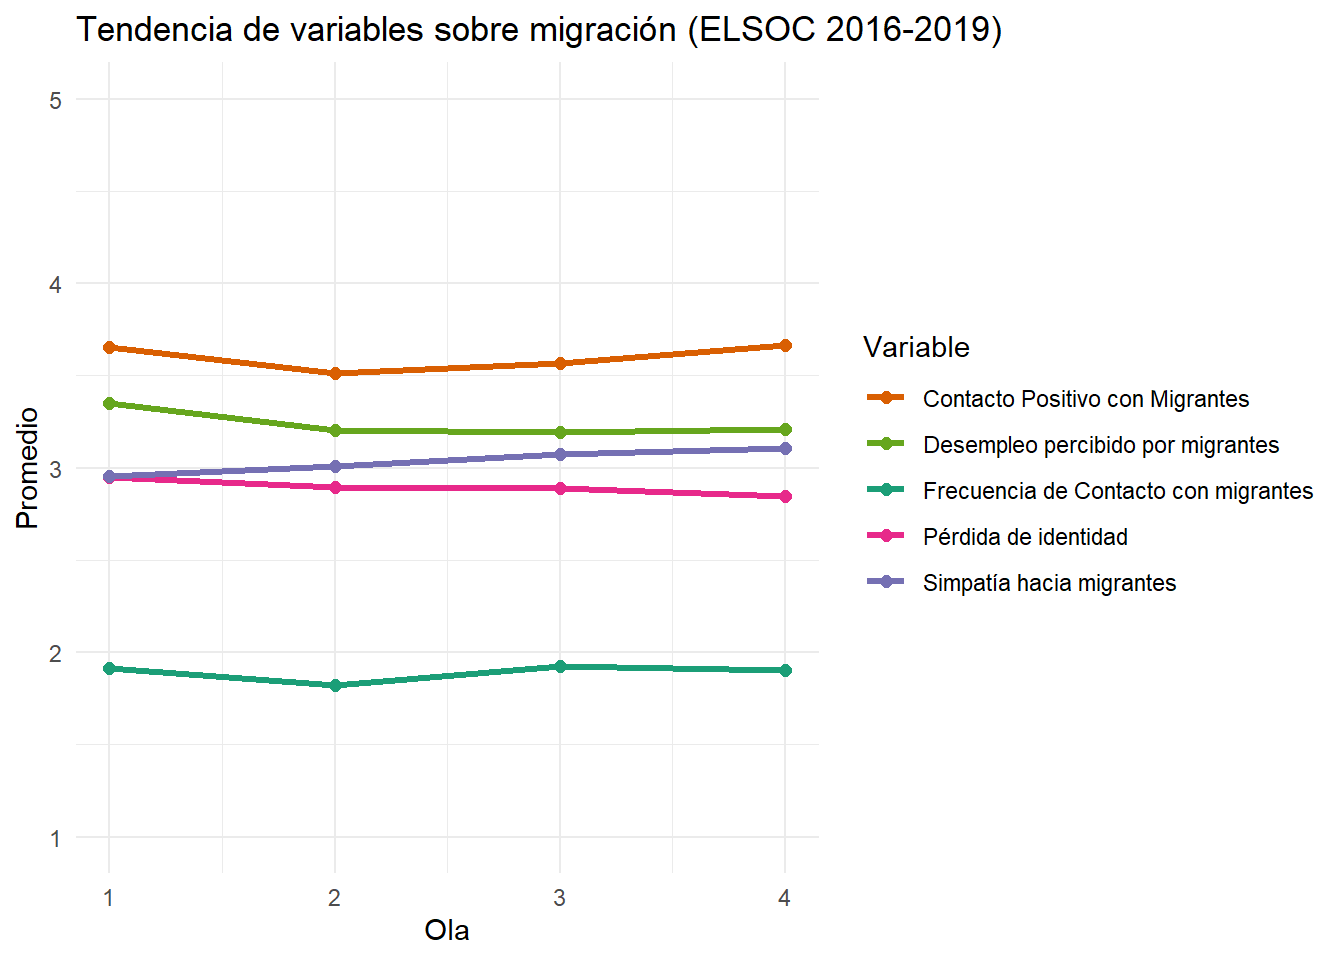
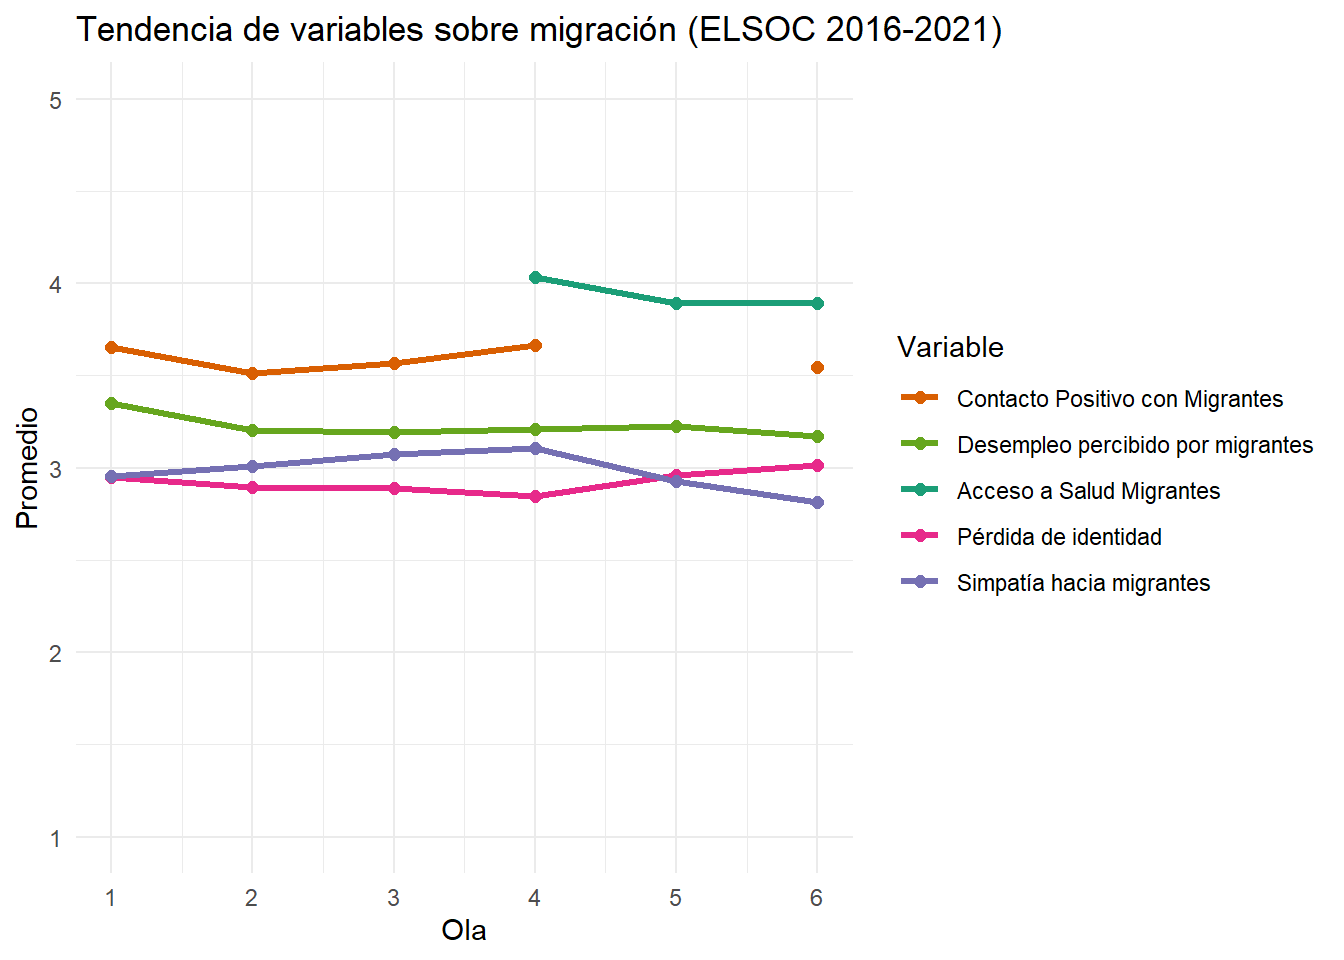
render

diff --git a/output/migracion_long.html b/output/migracion_long.html
@@ -52,7 +52,7 @@ ul.task-list li input[type="checkbox"] {
       <div>
       <div class="quarto-title-meta-heading">Fecha de publicación</div>
       <div class="quarto-title-meta-contents">
-        <p class="date">25 de agosto de 2025</p>
+        <p class="date">26 de agosto de 2025</p>
       </div>
     </div>
     
@@ -80,9 +80,22 @@ ul.task-list li input[type="checkbox"] {
 <p><img src="ocs-new.jpeg" class="logo" width="262" height="120"></p>
 <section id="migración-en-chile-percepciones-desafíos-y-oportunidades" class="level1" style="text-align: justify" data-number="1"><h1 data-number="1">
 <span class="header-section-number">1</span> Migración en Chile: Percepciones, desafíos y oportunidades</h1>
-<p>Hasta fines de 2024, Chile alberga aproximadamente 1,9 millones de personas extranjeras, con predominio de hombres (51,1%) y concentración etaria entre 30 y 39 años. Los principales grupos son venezolanos (38%), peruanos (13,6%) y haitianos (9,8%) (SERMIG, 2024). La migración se ha convertido en un tema central de la agenda pública, no solo como desafío administrativo, sino también como eje de conflicto social y percepción ciudadana (SERMIG, 2025).</p>
-<p>Los datos muestran un empeoramiento de las actitudes hacia migrantes: un 55% percibe conflictos “muy fuertes” entre nacionales y extranjeros (El País, 2025; La Tercera, 2025), y un 70% declara alta distancia social (Activa Research, 2025). La percepción de carga económica también es elevada: 72% de los chilenos considera que los migrantes presionan los servicios públicos, frente a 18% que reconoce su aporte positivo (Panel Ciudadano, 2024).</p>
+<p>De acuerdo con los resultados de migración presentes en el CENSO 2024, Chile alberga aproximadamente 1,6 millones de De acuerdo con los resultados del CENSO 2024, la población nacida fuera de Chile asciende a aproximadamente 1,6 millones de personas. Esta cifra representa un 8.8% de la población total residente en el país, lo que duplica el porcentaje de 4.4% registrado en el censo anterior de 2017.</p>
+<p>Del total de inmigrantes internacionales, 508.178 personas llegaron al país antes de 2017, mientras que 1.085.538 lo hicieron a partir de ese año. El mayor flujo migratorio se concentró en el período 2017-2019, con cifras anuales del 10.4% (2017), 12.4% (2018) y 10.7% (2019) del total de personas migrantes que declararon su año de ingreso.</p>
+<p>Con predominio de mujeres (51.7%) y concentración etaria entre 30 y 39 años. El grupo principal corresponde a las personas provenientes de Venezuela (41.6%), seguido de Perú (14.5%) y Colombia (12.3%) (CENSO, 2024).</p>
+<p>La migración se ha convertido en un tema central de la agenda pública, no solo como desafío administrativo, sino también como eje de conflicto social. El cambio abrupto tanto en la magnitud como en la composición de los flujos ha tensionado los patrones de interacción social y los marcos institucionales disponibles para procesar el fenómeno (Lang et al., 2024).</p>
+<p>Este escenario ha generado un periodo de adaptación inestable entre migrantes y población local, en el que la inclusión social se ve dificultada por la rapidez y densidad del cambio (Lang et al., 2024). En consecuencia, las percepciones ciudadanas hacia los migrantes recientes se caracterizan por una fuerte ambivalencia: mientras una mayoría de chilenos (74%) y migrantes previos (72%) declara una visión negativa respecto de quienes llegaron en los últimos cinco años (CEP, 2024), también se reconoce a este grupo como trabajadores y honestos, aunque simultáneamente se les asocie con delincuencia o falta de respeto a las costumbres locales.</p>
+<p>La evidencia muestra que estas percepciones contradictorias dependen fuertemente de la experiencia individual y contingente de la interacción, de modo que el mismo espacio —la calle, el barrio o el trabajo— puede ser escenario tanto de relaciones positivas como negativas (CEP, 2024). La falta de anclajes institucionales y discursivos que otorguen estabilidad a estas experiencias refuerza la polarización y la incertidumbre, situando a los migrantes recientes como objeto de juicios extremos, ya sea positivos o negativos (Lang et al., 2024).</p>
+<p>La macrozona norte del país es un caso particularmente relevante, dado que concentra una alta densidad de población migrante (CENSO, 2024) y enfrenta un contacto cotidiano más frecuente con ellos (INE, 2022). No obstante, contrariamente a lo sugerido por la literatura sobre contacto intergrupal, que indica que la interacción sostenida tiende a reducir prejuicios (Voci &amp; Hewstone, 2003; Paolini et al., 2014), en esta zona se observa una asociación significativa entre mayor exposición y percepciones más negativas, especialmente en aspectos normativos como el respeto a las leyes o a las costumbres chilenas (CEP, 2024). Este hallazgo coincide con tesis como la de Putnam (2007), quien advierte que la diversidad puede generar actitudes hostiles en el corto plazo, antes de que se consoliden procesos de integración.</p>
 <div class="cell">
+<div class="cell-output cell-output-stderr">
+<pre><code>Warning: Removed 3 rows containing missing values or values outside the scale range
+(`geom_line()`).</code></pre>
+</div>
+<div class="cell-output cell-output-stderr">
+<pre><code>Warning: Removed 4 rows containing missing values or values outside the scale range
+(`geom_point()`).</code></pre>
+</div>
 <div class="cell-output-display">
 <div id="fig-long-1" class="quarto-float quarto-figure quarto-figure-center anchored">
 <figure class="quarto-float quarto-float-fig figure"><div aria-describedby="fig-long-1-caption-0ceaefa1-69ba-4598-a22c-09a6ac19f8ca">
@@ -94,7 +107,6 @@ Figura&nbsp;1: Tendencia de variables sobre migración ELSOC (2016-2019)
 </div>
 </div>
 </div>
-<p>La interacción ciudadana es selectiva: abierta en ámbitos laborales y escolares, pero resistente en espacios cercanos como vecindario o relaciones jerárquicas (Criteria, 2025). Niños, niñas y adolescentes migrantes presentan alta vulnerabilidad, especialmente quienes viven en situación irregular, enfrentando riesgos de exclusión educativa, violencia y precariedad (SERMIG, 2025; Políticas Migratorias, 2024).</p>
 <div class="cell">
 <div class="cell-output-display">
 <div class="quarto-figure quarto-figure-center">
@@ -111,8 +123,6 @@ Figura&nbsp;1: Tendencia de variables sobre migración ELSOC (2016-2019)
 </div>
 </div>
 </div>
-<p>Persisten barreras laborales, educativas, de salud y vivienda, con discriminación estructural y limitaciones legales para la contratación de extranjeros (CENEM, 2023; UCSH, 2019; UC, 2024). Las políticas públicas muestran fragmentación institucional, carencia de coordinación y escasos recursos para abordar la integración efectiva (Espacio Público, 2023; SJM, 2022).</p>
-<p>El rechazo a migrantes está mediado por percepción de pobreza, competencia por recursos y narrativas mediáticas negativas (USACH, 2025; Ipsos, 2025). Aunque existe apoyo a derechos básicos, persiste el rechazo a derechos políticos y un 92% respalda políticas migratorias más estrictas (Panel Ciudadano, 2024). La dispersión territorial de migrantes genera tensiones locales y contribuye a desigualdades estructurales, consolidando la</p>
 <div class="cell">
 <div class="cell-output-display">
 <div class="quarto-figure quarto-figure-center">
